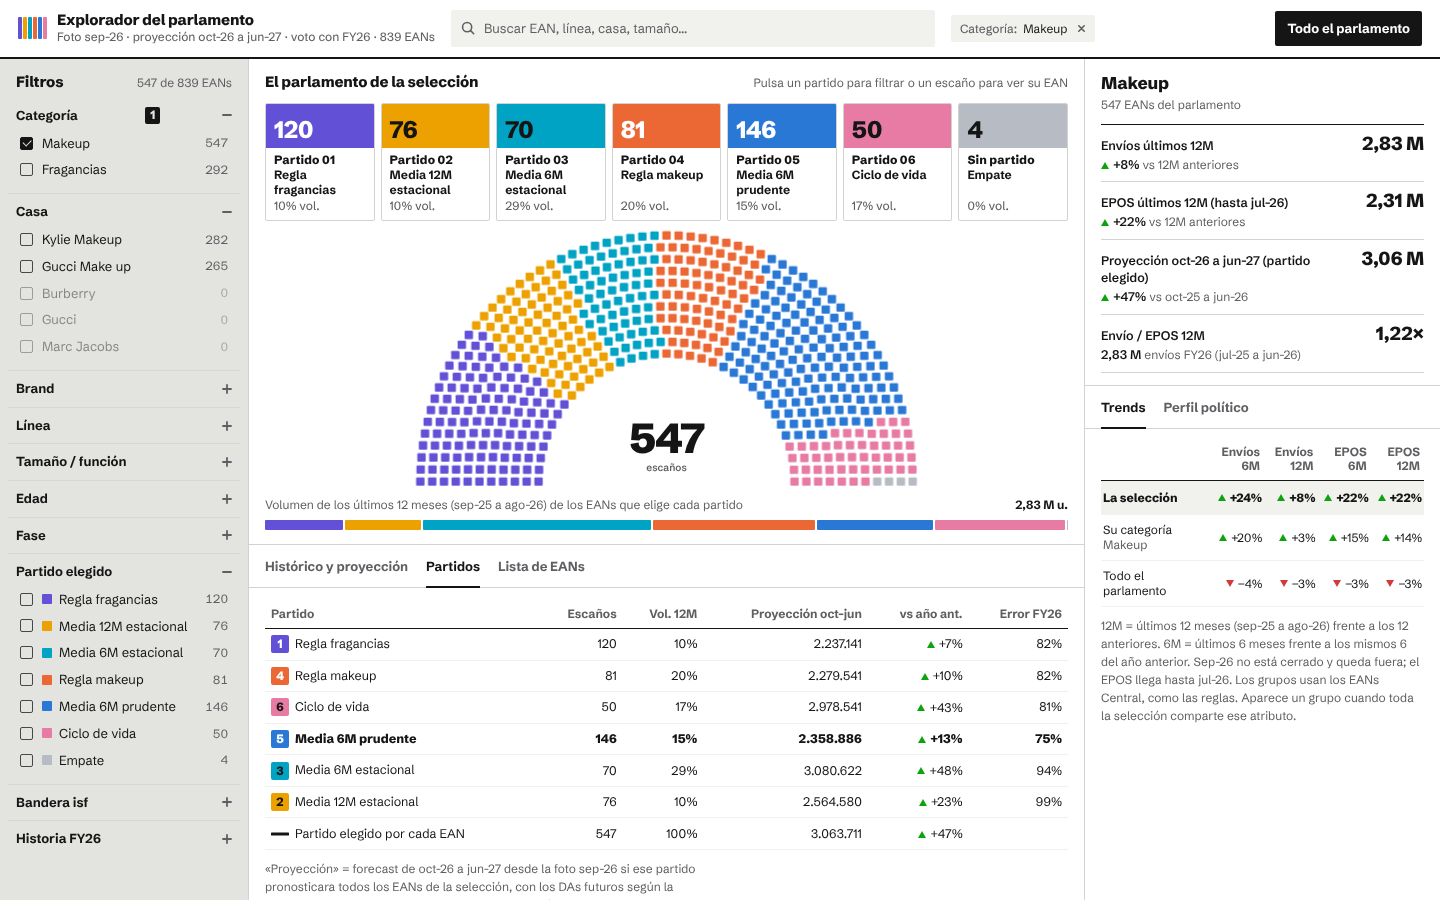
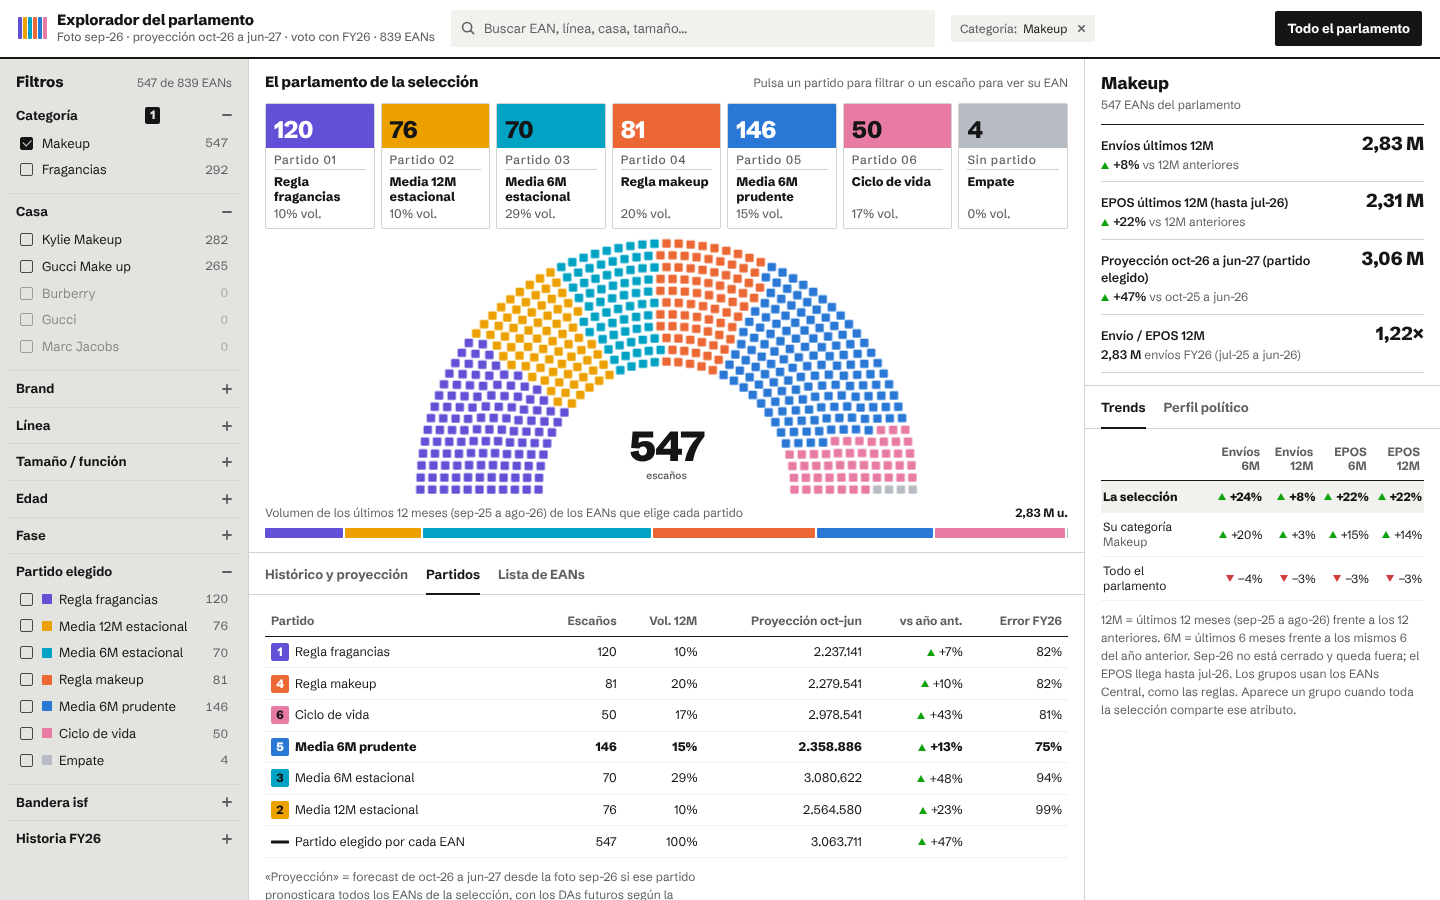
fix: lockup código/nombre en las pastillas y fila base de trends visible
Ronda de arreglos del revisor final: «Partido 0N» como línea apagada sobre
el nombre; subetiquetas de trends en una línea para que «Todo el
parlamento» quepa en pantalla con un EAN seleccionado.

Claude-Session: https://claude.ai/code/session_012ZwD1ovg3Wg2vafTpcF9AA

diff --git a/reportes/EXPLORADOR_PARLAMENTO.html b/reportes/EXPLORADOR_PARLAMENTO.html
@@ -96,14 +96,15 @@ input { caret-color: var(--ink); }
 .sw .blk { display: flex; align-items: flex-end; justify-content: space-between; padding: 7px 8px 6px; min-height: 44px; }
 .sw .blk b { font: 800 24px/1 var(--f); letter-spacing: -.02em; }
 
-.sw .lab small { font: 800 12px/1 var(--f); letter-spacing: .01em; color: var(--ink); }
-.sw .lab { min-width: 0; padding: 6px 8px 7px; font: 700 12px/1.2 var(--f); color: var(--ink); display: flex; flex-direction: column; gap: 2px; transition: background-color 160ms ease, color 160ms ease; }
+.sw .lab small { font: 500 12px/1 var(--f); letter-spacing: .06em; color: var(--muted); padding-bottom: 3px; border-bottom: 1px solid var(--line); margin-bottom: 2px; }
+.sw .lab { min-width: 0; padding: 6px 8px 7px; font: 800 12.5px/1.2 var(--f); color: var(--ink); display: flex; flex-direction: column; gap: 2px; transition: background-color 160ms ease, color 160ms ease; }
 .sw .lab span { display: -webkit-box; -webkit-line-clamp: 2; -webkit-box-orient: vertical; overflow: hidden; min-height: 2.4em; }
 .sw .lab em { display: block; font-style: normal; font-weight: 450; color: var(--muted); white-space: nowrap; overflow: hidden; text-overflow: ellipsis; }
 .sw.zero { opacity: .38; }
 .sw[aria-pressed="true"] { border-color: var(--ink); }
 .sw[aria-pressed="true"] .lab { background: var(--ink); color: var(--surface); }
 .sw[aria-pressed="true"] .lab em, .sw[aria-pressed="true"] .lab small { color: var(--surface); }
+.sw[aria-pressed="true"] .lab small { border-bottom-color: color-mix(in oklab, var(--surface) 30%, transparent); }
 .sw[aria-pressed="true"] .lab em { opacity: .75; }
 .hemi-body { padding: 4px 16px 6px; }
 .hemi { width: 100%; height: auto; max-height: 29vh; display: block; }
@@ -177,10 +178,10 @@ table.t { width: 100%; border-collapse: collapse; font-size: 12.5px; }
 .tr-tab { width: 100%; border-collapse: collapse; font-size: 12px; table-layout: fixed; }
 .tr-tab th { font: 700 12px/1.2 var(--f); color: var(--muted); text-align: right; padding: 4px 4px 7px; border-bottom: 1px solid var(--ink); }
 .tr-tab th:first-child { text-align: left; }
-.tr-tab td { padding: 7px 2px; white-space: nowrap; border-bottom: 1px solid var(--soft); text-align: right; color: var(--ink); }
+.tr-tab td { padding: 6px 2px; white-space: nowrap; border-bottom: 1px solid var(--soft); text-align: right; color: var(--ink); }
 .tr-tab th:first-child, .tr-tab td:first-child { width: 34%; }
 .tr-tab td:first-child { text-align: left; white-space: normal; line-height: 1.3; }
-.tr-tab td:first-child small { display: -webkit-box; -webkit-line-clamp: 2; -webkit-box-orient: vertical; overflow: hidden; color: var(--muted); font-size: 12px; }
+.tr-tab td:first-child small { display: block; white-space: nowrap; overflow: hidden; text-overflow: ellipsis; color: var(--muted); font-size: 12px; }
 .tr-tab tr.me td { background: var(--soft); font-weight: 800; }
 .note { font-size: 12px; color: var(--muted); margin-top: 10px; line-height: 1.5; max-width: 62ch; }
 .seg { display: flex; gap: 0; margin-bottom: 10px; border: 1px solid var(--ink); border-radius: var(--r); overflow: hidden; }

diff --git a/src/explorador_template.html b/src/explorador_template.html
@@ -96,14 +96,15 @@ input { caret-color: var(--ink); }
 .sw .blk { display: flex; align-items: flex-end; justify-content: space-between; padding: 7px 8px 6px; min-height: 44px; }
 .sw .blk b { font: 800 24px/1 var(--f); letter-spacing: -.02em; }
 
-.sw .lab small { font: 800 12px/1 var(--f); letter-spacing: .01em; color: var(--ink); }
-.sw .lab { min-width: 0; padding: 6px 8px 7px; font: 700 12px/1.2 var(--f); color: var(--ink); display: flex; flex-direction: column; gap: 2px; transition: background-color 160ms ease, color 160ms ease; }
+.sw .lab small { font: 500 12px/1 var(--f); letter-spacing: .06em; color: var(--muted); padding-bottom: 3px; border-bottom: 1px solid var(--line); margin-bottom: 2px; }
+.sw .lab { min-width: 0; padding: 6px 8px 7px; font: 800 12.5px/1.2 var(--f); color: var(--ink); display: flex; flex-direction: column; gap: 2px; transition: background-color 160ms ease, color 160ms ease; }
 .sw .lab span { display: -webkit-box; -webkit-line-clamp: 2; -webkit-box-orient: vertical; overflow: hidden; min-height: 2.4em; }
 .sw .lab em { display: block; font-style: normal; font-weight: 450; color: var(--muted); white-space: nowrap; overflow: hidden; text-overflow: ellipsis; }
 .sw.zero { opacity: .38; }
 .sw[aria-pressed="true"] { border-color: var(--ink); }
 .sw[aria-pressed="true"] .lab { background: var(--ink); color: var(--surface); }
 .sw[aria-pressed="true"] .lab em, .sw[aria-pressed="true"] .lab small { color: var(--surface); }
+.sw[aria-pressed="true"] .lab small { border-bottom-color: color-mix(in oklab, var(--surface) 30%, transparent); }
 .sw[aria-pressed="true"] .lab em { opacity: .75; }
 .hemi-body { padding: 4px 16px 6px; }
 .hemi { width: 100%; height: auto; max-height: 29vh; display: block; }
@@ -177,10 +178,10 @@ table.t { width: 100%; border-collapse: collapse; font-size: 12.5px; }
 .tr-tab { width: 100%; border-collapse: collapse; font-size: 12px; table-layout: fixed; }
 .tr-tab th { font: 700 12px/1.2 var(--f); color: var(--muted); text-align: right; padding: 4px 4px 7px; border-bottom: 1px solid var(--ink); }
 .tr-tab th:first-child { text-align: left; }
-.tr-tab td { padding: 7px 2px; white-space: nowrap; border-bottom: 1px solid var(--soft); text-align: right; color: var(--ink); }
+.tr-tab td { padding: 6px 2px; white-space: nowrap; border-bottom: 1px solid var(--soft); text-align: right; color: var(--ink); }
 .tr-tab th:first-child, .tr-tab td:first-child { width: 34%; }
 .tr-tab td:first-child { text-align: left; white-space: normal; line-height: 1.3; }
-.tr-tab td:first-child small { display: -webkit-box; -webkit-line-clamp: 2; -webkit-box-orient: vertical; overflow: hidden; color: var(--muted); font-size: 12px; }
+.tr-tab td:first-child small { display: block; white-space: nowrap; overflow: hidden; text-overflow: ellipsis; color: var(--muted); font-size: 12px; }
 .tr-tab tr.me td { background: var(--soft); font-weight: 800; }
 .note { font-size: 12px; color: var(--muted); margin-top: 10px; line-height: 1.5; max-width: 62ch; }
 .seg { display: flex; gap: 0; margin-bottom: 10px; border: 1px solid var(--ink); border-radius: var(--r); overflow: hidden; }

diff --git a/work/explorador_artifact.html b/work/explorador_artifact.html
@@ -96,14 +96,15 @@ input { caret-color: var(--ink); }
 .sw .blk { display: flex; align-items: flex-end; justify-content: space-between; padding: 7px 8px 6px; min-height: 44px; }
 .sw .blk b { font: 800 24px/1 var(--f); letter-spacing: -.02em; }
 
-.sw .lab small { font: 800 12px/1 var(--f); letter-spacing: .01em; color: var(--ink); }
-.sw .lab { min-width: 0; padding: 6px 8px 7px; font: 700 12px/1.2 var(--f); color: var(--ink); display: flex; flex-direction: column; gap: 2px; transition: background-color 160ms ease, color 160ms ease; }
+.sw .lab small { font: 500 12px/1 var(--f); letter-spacing: .06em; color: var(--muted); padding-bottom: 3px; border-bottom: 1px solid var(--line); margin-bottom: 2px; }
+.sw .lab { min-width: 0; padding: 6px 8px 7px; font: 800 12.5px/1.2 var(--f); color: var(--ink); display: flex; flex-direction: column; gap: 2px; transition: background-color 160ms ease, color 160ms ease; }
 .sw .lab span { display: -webkit-box; -webkit-line-clamp: 2; -webkit-box-orient: vertical; overflow: hidden; min-height: 2.4em; }
 .sw .lab em { display: block; font-style: normal; font-weight: 450; color: var(--muted); white-space: nowrap; overflow: hidden; text-overflow: ellipsis; }
 .sw.zero { opacity: .38; }
 .sw[aria-pressed="true"] { border-color: var(--ink); }
 .sw[aria-pressed="true"] .lab { background: var(--ink); color: var(--surface); }
 .sw[aria-pressed="true"] .lab em, .sw[aria-pressed="true"] .lab small { color: var(--surface); }
+.sw[aria-pressed="true"] .lab small { border-bottom-color: color-mix(in oklab, var(--surface) 30%, transparent); }
 .sw[aria-pressed="true"] .lab em { opacity: .75; }
 .hemi-body { padding: 4px 16px 6px; }
 .hemi { width: 100%; height: auto; max-height: 29vh; display: block; }
@@ -177,10 +178,10 @@ table.t { width: 100%; border-collapse: collapse; font-size: 12.5px; }
 .tr-tab { width: 100%; border-collapse: collapse; font-size: 12px; table-layout: fixed; }
 .tr-tab th { font: 700 12px/1.2 var(--f); color: var(--muted); text-align: right; padding: 4px 4px 7px; border-bottom: 1px solid var(--ink); }
 .tr-tab th:first-child { text-align: left; }
-.tr-tab td { padding: 7px 2px; white-space: nowrap; border-bottom: 1px solid var(--soft); text-align: right; color: var(--ink); }
+.tr-tab td { padding: 6px 2px; white-space: nowrap; border-bottom: 1px solid var(--soft); text-align: right; color: var(--ink); }
 .tr-tab th:first-child, .tr-tab td:first-child { width: 34%; }
 .tr-tab td:first-child { text-align: left; white-space: normal; line-height: 1.3; }
-.tr-tab td:first-child small { display: -webkit-box; -webkit-line-clamp: 2; -webkit-box-orient: vertical; overflow: hidden; color: var(--muted); font-size: 12px; }
+.tr-tab td:first-child small { display: block; white-space: nowrap; overflow: hidden; text-overflow: ellipsis; color: var(--muted); font-size: 12px; }
 .tr-tab tr.me td { background: var(--soft); font-weight: 800; }
 .note { font-size: 12px; color: var(--muted); margin-top: 10px; line-height: 1.5; max-width: 62ch; }
 .seg { display: flex; gap: 0; margin-bottom: 10px; border: 1px solid var(--ink); border-radius: var(--r); overflow: hidden; }
